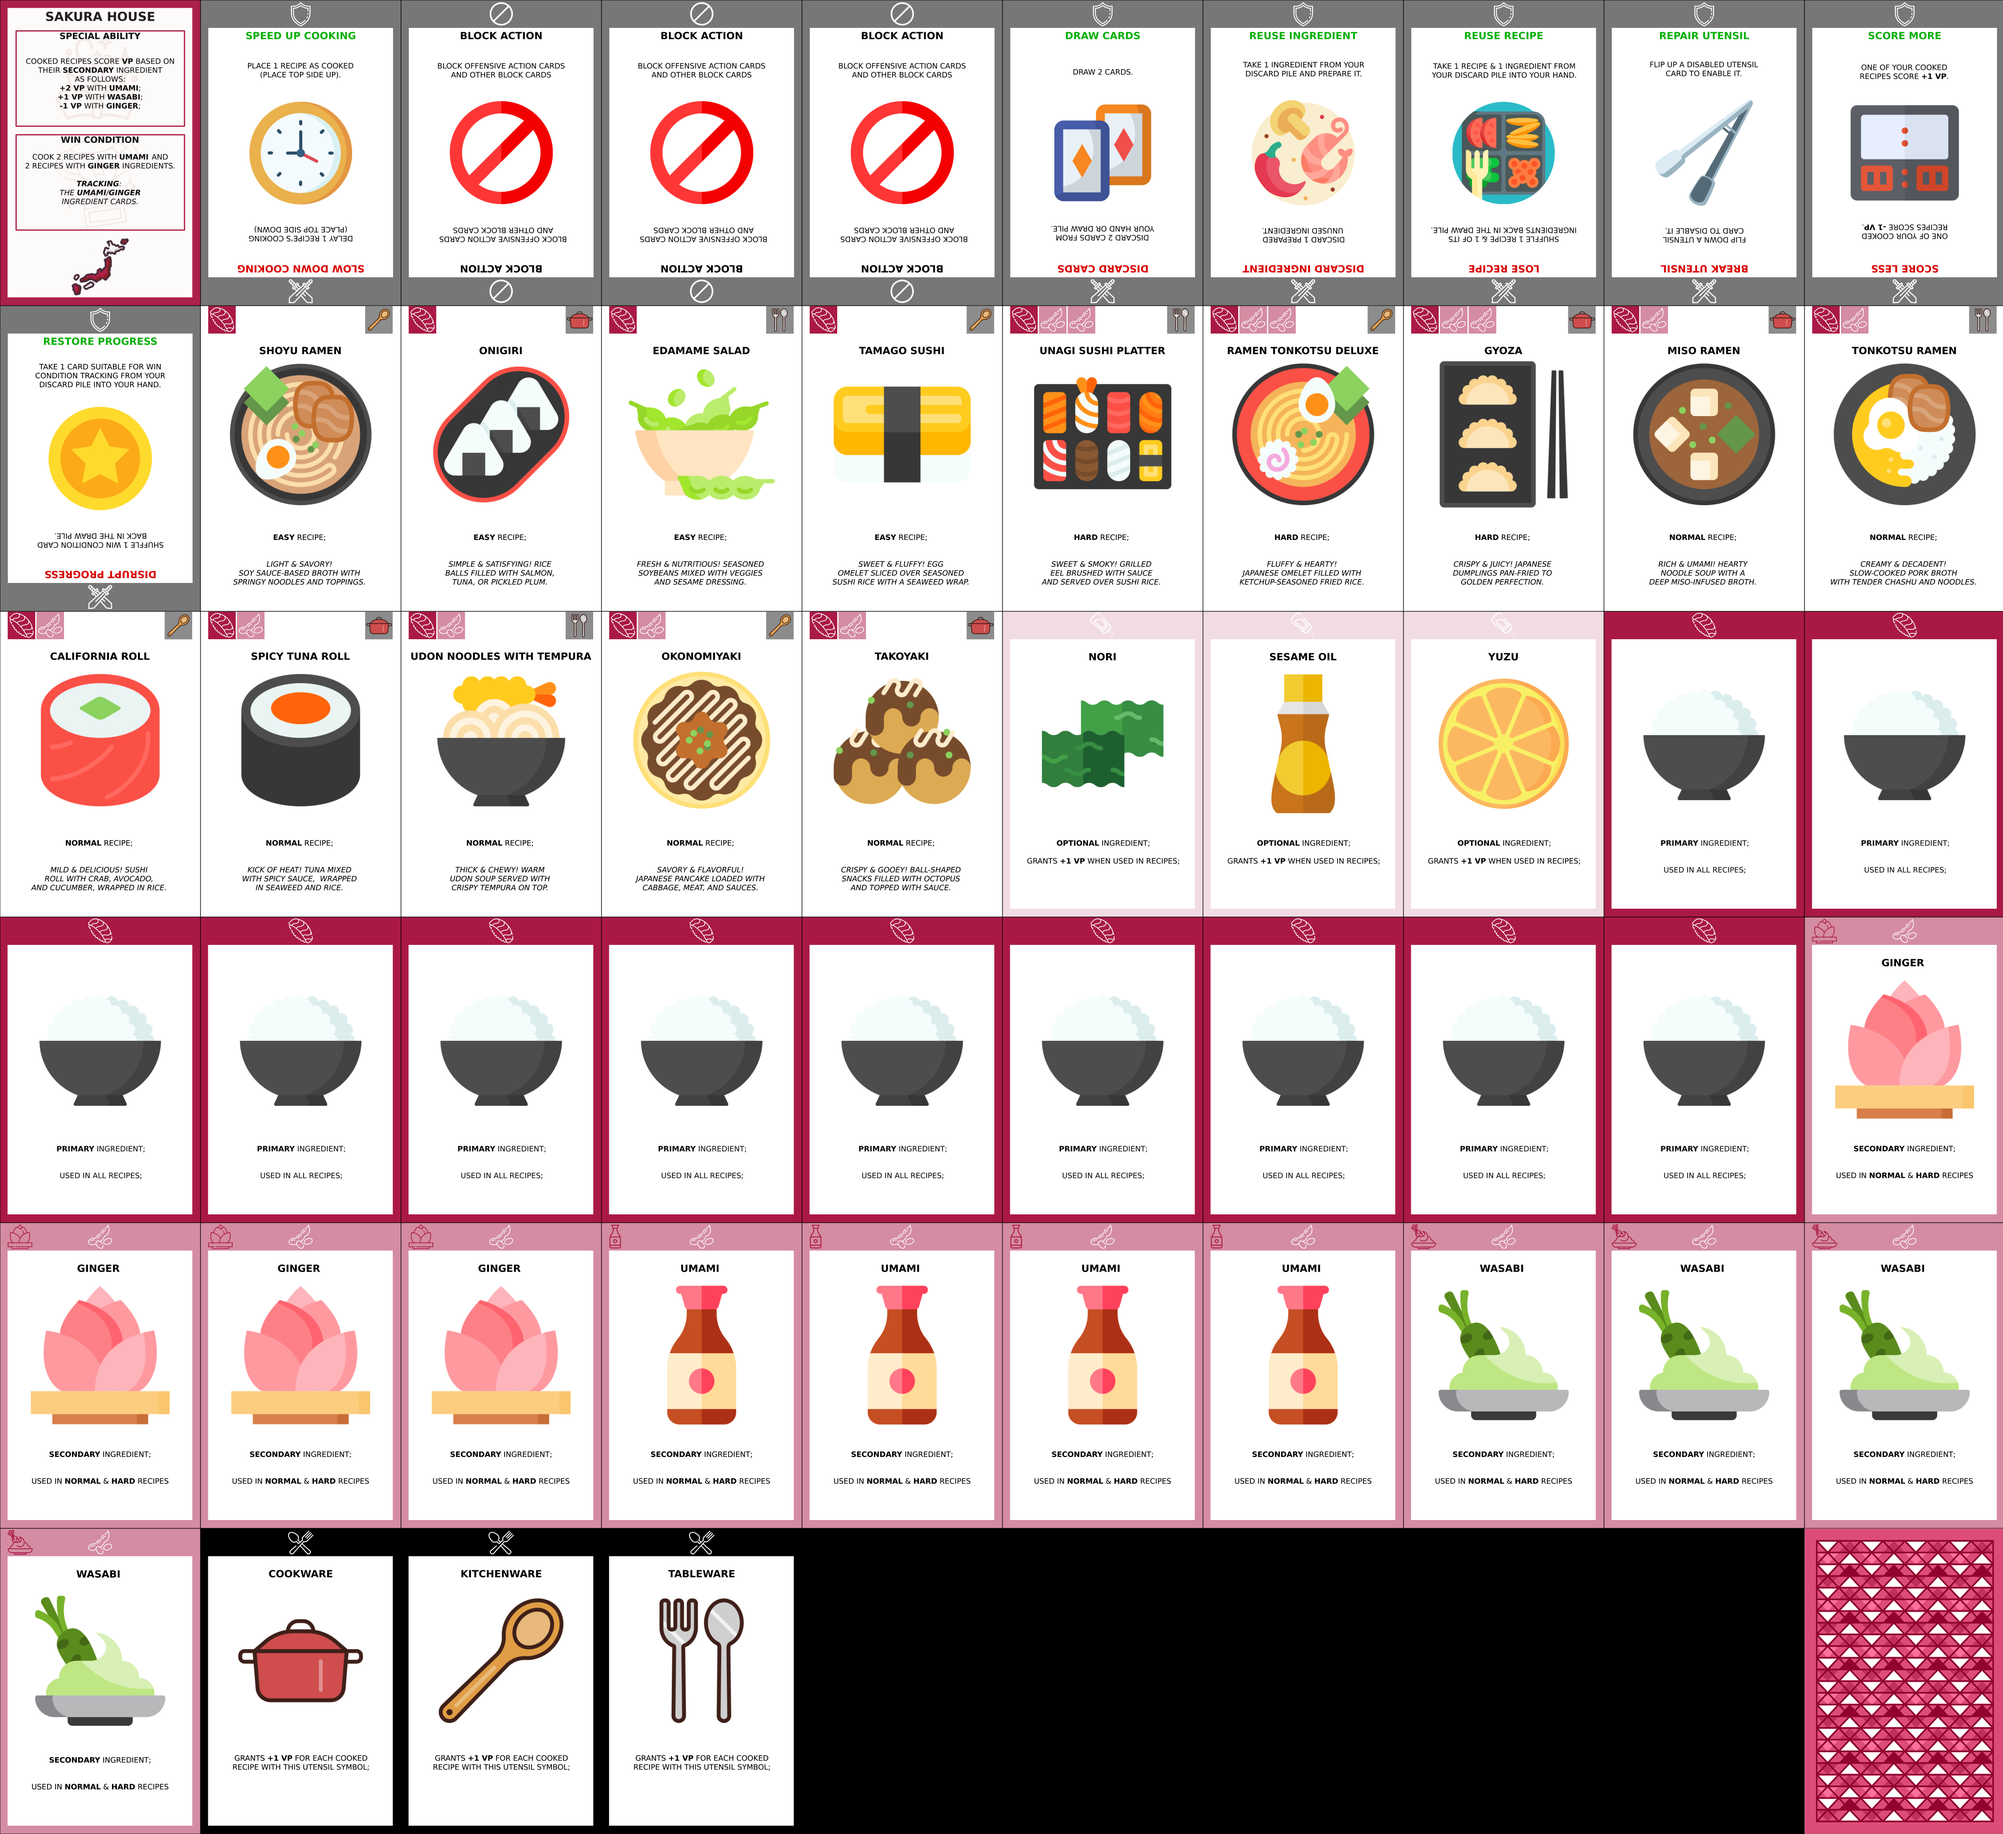
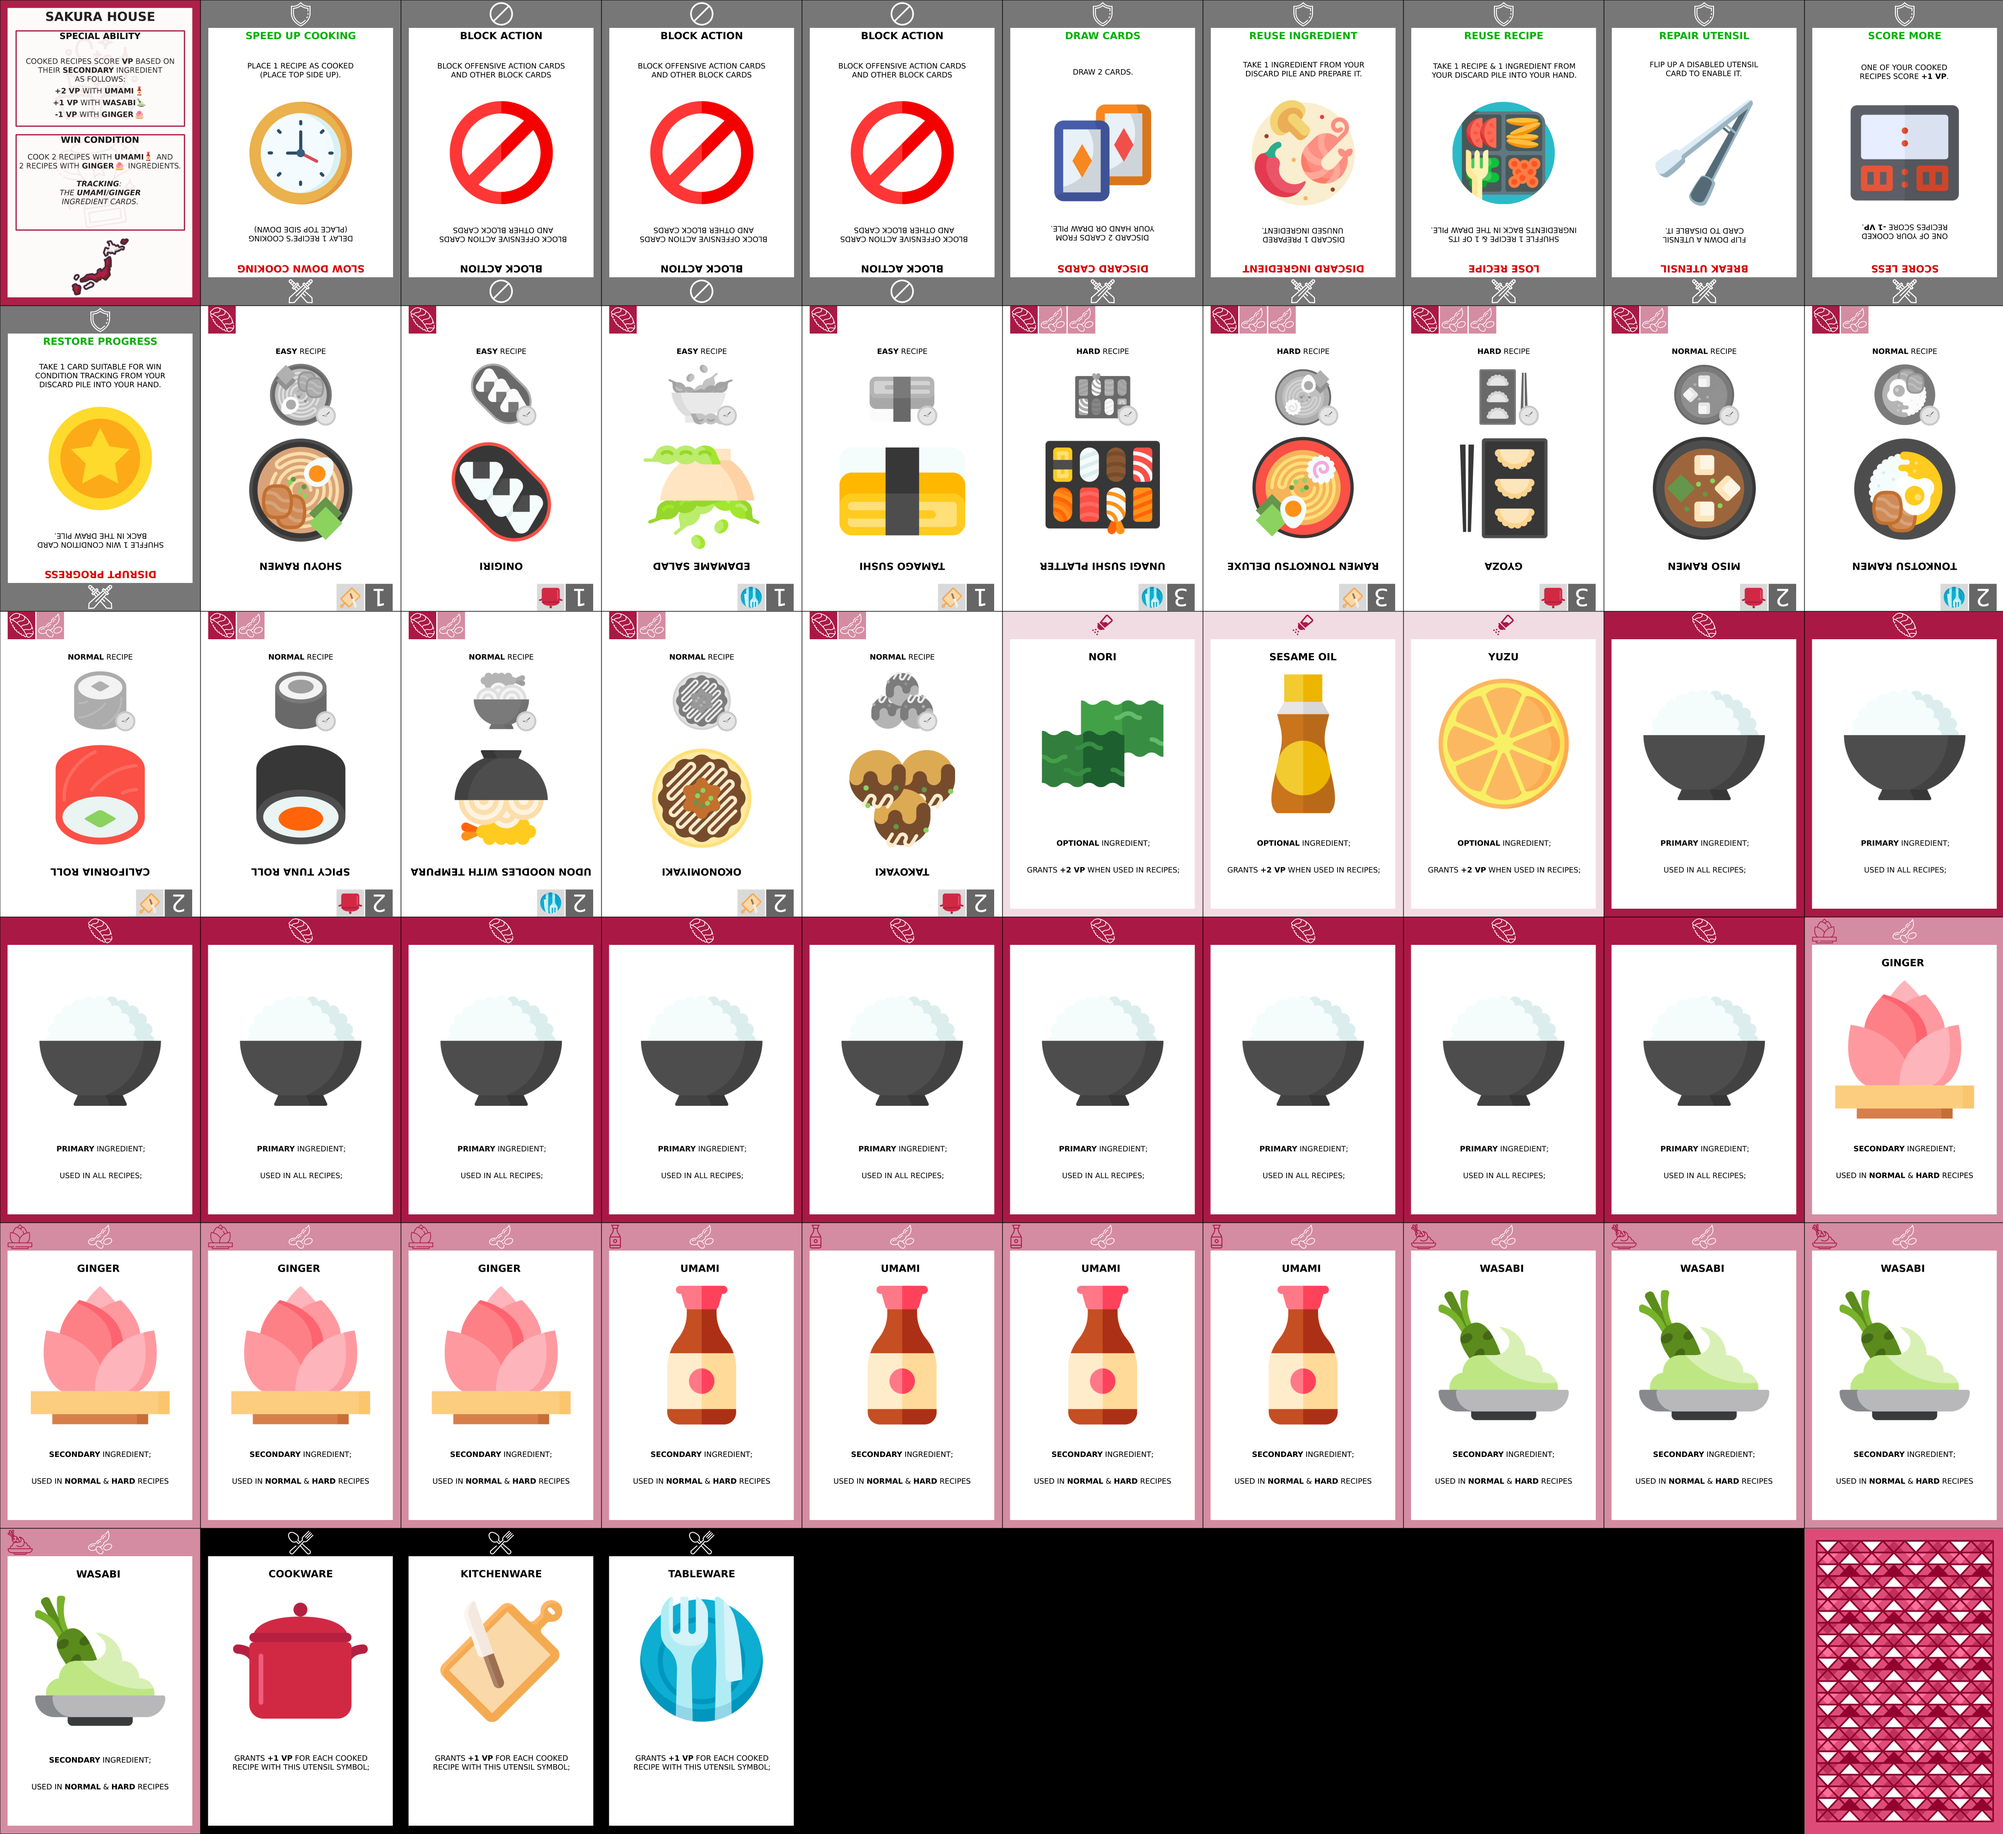
visual updates

diff --git a/food-court/Rules.md b/food-court/Rules.md
@@ -72,7 +72,7 @@ During their turn, players always start by:
 
 - Discarding up to 3 cards from their hand & drawing cards until they have 8 cards in their hand
   (reshuffle the discard pile back into the draw deck if needed).
-- Rotate upward any upside-down recipe cards to finish their cooking and make them ready to score.
+- Rotate any recipe cards in play with their score number up to make them ready to score.
 
 Then they can:
 
@@ -101,7 +101,7 @@ Scoring happens as follows:
   - any utensil cards that match a cooked recipe
   - any met role card condition (if in play).
 - If you have a card from a cooked recipe that is used to track your win condition, place it in
-your win condition tracking area. You can only put one such card per turn.
+your win condition tracking area. You can only put 1 win condition card per turn!
 
 ## Card Types
 
@@ -111,7 +111,7 @@ Can be:
 
 - **Primary** - Used in all recipes.
 - **Secondary** - Used in **normal** and **hard** recipes.
-- **Optional** - Can be used in a recipe to grant **+1 VP**.
+- **Optional** - Can be used in a recipe to grant **+2 VP**.
 
 ![image](images/guide_ingredient.png)
 
@@ -143,8 +143,8 @@ They grant **1 VP** for each ingredient used so **1 VP** for **easy**, **2 VP** 
 Recipe cards have the following structure:
 
 - Utensil Symbol - Depicts the utensil type that can be used to score extra VP.
-- Recipe Picture - A picture of the dish.
-- Recipe Description - Short description of the dish.
+- Recipe Pictures - Pictures of the dish in monochrome (cooking) and color (ready to score).
+- Recipe Score - Base score value of the recipe.
 - Recipe Type - The difficulty of the recipe (easy, normal, hard).
 - Recipe Name - The name of the dish.
 - Ingredient Requirements - The ingredients needed to cook the recipe.
@@ -236,11 +236,13 @@ For each recipe you want to cook you need to:
 
 - choose from the prepared unused ingredient cards.
 - place them in a column with an overlap.
-- put the recipe upside-down at the bottom of the column.
+- put the recipe card at the bottom of the column with the monochrome picture up.
 
-The recipe is now being cooked (you are not able to score from it yet).
-On your next turn you put the recipe card upwards meaning it's ready.
-You can score from it now.
+The recipe is now being cooked (you are not able to score from it yet, and it does not participate
+in any special ability effects, etc.).
+On your next turn you flip the recipe card with its score number and color picture up meaning 
+it's ready.  
+You can score from it now, and it participates in any special ability effects, etc.
 
 ### Put Utensils
 

diff --git a/food-court/Playtesting.md b/food-court/Playtesting.md
@@ -1,0 +1,54 @@
+# Play testing and game data
+
+## Table of Contents
+
+- [Table of Contents](#table-of-contents)
+- [Game data](#game-data)
+- [BMG Feedback](#bmg-feedback)
+
+## Game data:
+
+### v0.6.4
+
+**2 Players**
+
+| Decks           | Duration | Win Condition Cards | Score    | Rounds |
+|-----------------|----------|---------------------|----------|--------|
+| Italy vs France | 28m 33s  | 3 vs 4              | 44 vs 72 | 8      |
+| Italy vs France | 14m 13s  | 2 vs 4              | 27 vs 48 | 5      |
+| China vs India  | 17m 25s  | 4 vs 1              | 73 vs 20 | 6      |
+| China vs India  | 23m 44s  | 2 vs 4              | 40 vs 78 | 9      |
+
+### v0.7.0
+
+**2 Players**
+
+| Decks           | Duration | Win Condition Cards | Score    | Rounds |
+|-----------------|----------|---------------------|----------|--------|
+| Italy vs France | 19m 42s  | 4 vs 3              | 59 vs 45 | 10     |
+| Italy vs China  | 26m 28s  | 3 vs 4              | 42 vs 67 | 12     |
+| Italy vs India  | 18m 57s  | 3 vs 4              | 32 vs 60 | 8      |
+| France vs China | 26m 56s  | 2 vs 4              | 40 vs 70 | 10     |
+| France vs India | 19m 32s  | 4 vs 4              | 62 vs 55 | 8      |
+| China vs India  | 11m 18s  | 1 vs 4              | 25 vs 49 | 5      |
+
+## BMG Feedback
+
+### Playtest 1 [2025-02-20]
+
+Looking for general feedback on the game.  
+Role cards were not used in this playtest.  
+4 rounds played with 4 players (using Italy, France, China & India decks).  
+
+Feedback:
+
+- loved the theme
+- defensive action cards should stay ready to be used (for 1 round only maybe)
+- put base reward value on the recipe cards (x2)
+- ingredients vs recipe cards win condition tracking may not be balanced
+- rate the game: 7/8 out of 10
+- defensive/offensive cards support player interaction but create a tension between playing solo
+and getting aggro from opponents
+- like that playing cards in advance frees up your hand, but it also keeps a lot of things to track
+(but not bad with placemats) 
+- mechanics-wise seems ok so possibly play testing needed mainly for deck balance

diff --git a/food-court/Notes.md b/food-court/Notes.md
@@ -26,16 +26,3 @@ you can have a bit more strategy in the game instead of just dumping what you dr
   +2 for matching recipes.
   - recipes can score based on the number of ingredients used in them (i.e. hard recipes can be
   cooked with only 1 (primary) ingredient (like easy recipes) but you then score only 1 VP)
-
-### DATA:
-
-#### v0.6.4
-
-**2 Players**
-
-| Decks           | Duration | Win Condition Cards | Score    | Rounds |
-|-----------------|----------|---------------------|----------|--------|
-| Italy vs France | 28m 33s  | 3 vs 4              | 44 vs 72 | 8      |
-| Italy vs France | 14m 13s  | 2 vs 4              | 27 vs 48 | 5      |
-| China vs India  | 17m 25s  | 4 vs 1              | 73 vs 20 | 6      |
-| China vs India  | 23m 44s  | 2 vs 4              | 40 vs 78 | 9      |

diff --git a/food-court/quick-reference.md b/food-court/quick-reference.md
@@ -47,7 +47,7 @@ During scoring, you can place (only) 1 win condition card if eligible!
 
 - **Primary** - Used in all recipes.
 - **Secondary** - Used in **Normal** and **Hard** recipes.
-- **Optional** - Grants **+1 VP** when used.
+- **Optional** - Grants **+2 VP** when used.
 
 ### Recipe Cards
 
@@ -56,7 +56,8 @@ During scoring, you can place (only) 1 win condition card if eligible!
 - **Hard** (1 Primary + 2 Secondary) - **+3 VP**
  
 **Hard Recipes** grant **+1 VP** to all other recipes cooked that turn.  
-Recipes are initially placed face down to cook and are straightened next turn making them ready.
+Recipes are initially in cooking mode (monochrome picture up) and are rotated next turn
+(color picture up) making them ready for scoring.
 
 ### Action Cards
 

diff --git a/food-court/CHANGELOG.md b/food-court/CHANGELOG.md
@@ -1,5 +1,13 @@
 # Changelog
 
+## [0.7.1]
+
+CHANGES:
+
+* Various visual updates
+* Added playtest data and feedback from BMG
+* Optional ingredient cards now grant +2 VP when used.
+
 ## [0.7.0]
 
 CHANGES:

diff --git a/food-court/README.md b/food-court/README.md
@@ -27,6 +27,7 @@ For more details, check:
 - [Changelog](CHANGELOG.md)
 - [ToDo](TODO.md)
 - [Notes](Notes.md)
+- [Playtesting](Playtesting.md)
 
 ## Mission Statement
 
